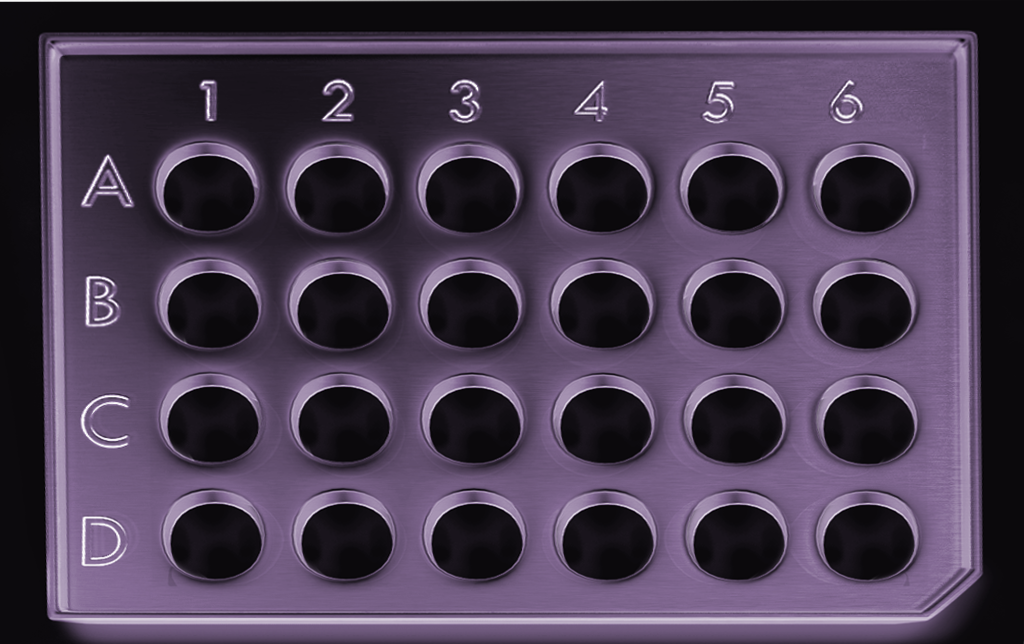
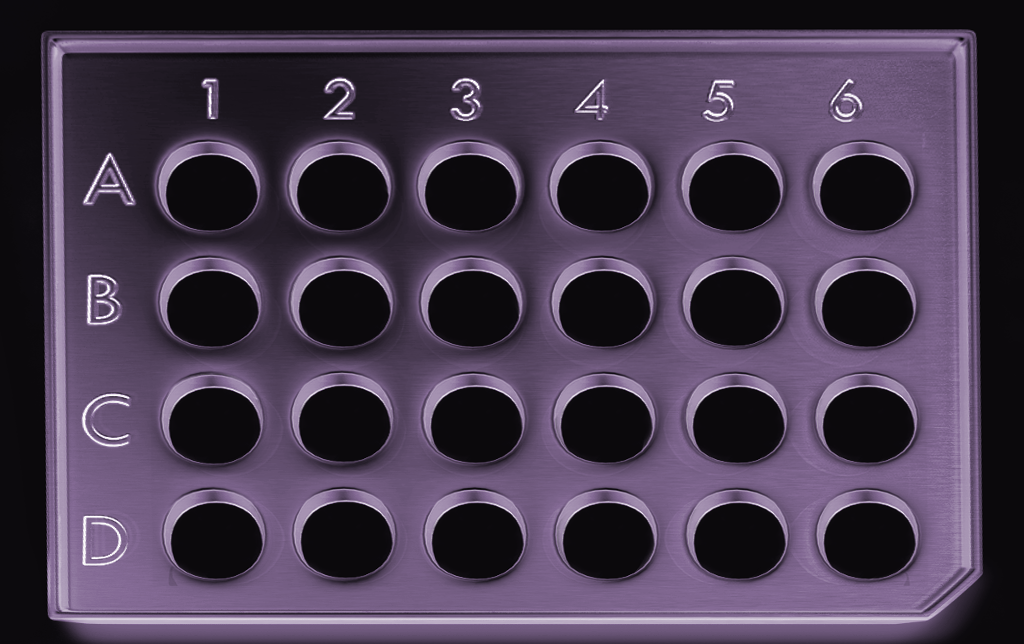
Microtiter now shows individual wells neatly, with correct overlay. Also, initial work on myeloma as own model

diff --git a/app/css/popup/_microtiter.scss b/app/css/popup/_microtiter.scss
@@ -30,11 +30,27 @@
   }
 }
 
-.well-slot0, .well-slot1, .well-slot2, .well-slot3 { width: 110px; height: 100px; position: absolute;}
+.well-slot0, .well-slot1, .well-slot2, .well-slot3, .well-slot4, .well-slot5,
+.well-slot6, .well-slot7, .well-slot8, .well-slot9, .well-slot10, .well-slot11,
+.well-slot12, .well-slot13, .well-slot14, .well-slot15, .well-slot16, .well-slot17,
+.well-slot18, .well-slot19, .well-slot20, .well-slot21, .well-slot22, .well-slot23  { width: 120px; height: 110px; position: absolute;}
 
-$topRow0: 130px;
-$leftColumn0: 162px;
-$leftColumn1: $leftColumn0 + 128px;
+$topRow0: 131px;
+$topRow1: $topRow0 + 117px;
+$topRow2: $topRow1 + 117px;
+$topRow3: $topRow2 + 117px;
+
+$leftRow1: 1px;
+$leftRow2: 2px;
+$leftRow3: 4px;
+
+$leftColumn0: 149px;
+$leftColumn1: $leftColumn0 + 130px;
+$leftColumn2: $leftColumn1 + 130px;
+$leftColumn3: $leftColumn2 + 131px;
+$leftColumn4: $leftColumn3 + 131px;
+$leftColumn5: $leftColumn4 + 132px;
+
 
 .well-slot0{
   top: $topRow0;
@@ -46,9 +62,89 @@ $leftColumn1: $leftColumn0 + 128px;
 }
 .well-slot2{
   top: $topRow0;
-  left: 410px;
+  left: $leftColumn2;
 }
 .well-slot3{
-    top: $topRow0;
-    left: 560px;
+  top: $topRow0;
+  left: $leftColumn3;
+}
+.well-slot4{
+  top: $topRow0;
+  left: $leftColumn4;
+}
+.well-slot5{
+  top: $topRow0;
+  left: $leftColumn5;
+}
+.well-slot6{
+  top: $topRow1;
+  left: $leftColumn0 + $leftRow1;
+}
+.well-slot7{
+  top: $topRow1;
+  left: $leftColumn1 + $leftRow1;
+}
+.well-slot8{
+  top: $topRow1;
+  left: $leftColumn2 + $leftRow1;
+}
+.well-slot9{
+  top: $topRow1;
+  left: $leftColumn3 + $leftRow1;
+}
+.well-slot10{
+  top: $topRow1;
+  left: $leftColumn4 + $leftRow1;
+}
+.well-slot11{
+  top: $topRow1;
+  left: $leftColumn5 + $leftRow1;
+}
+.well-slot12{
+  top: $topRow2;
+  left: $leftColumn0 + $leftRow2;
+}
+.well-slot13{
+  top: $topRow2;
+  left: $leftColumn1 + $leftRow2;
+}
+.well-slot14{
+  top: $topRow2;
+  left: $leftColumn2 + $leftRow2;
+}
+.well-slot15{
+  top: $topRow2;
+  left: $leftColumn3 + $leftRow2;
+}
+.well-slot16{
+  top: $topRow2;
+  left: $leftColumn4 + $leftRow2;
+}
+.well-slot17{
+  top: $topRow2;
+  left: $leftColumn5 + $leftRow2;
+}
+.well-slot18{
+  top: $topRow3;
+  left: $leftColumn0 + $leftRow3;
+}
+.well-slot19{
+  top: $topRow3;
+  left: $leftColumn1 + $leftRow3;
+}
+.well-slot20{
+  top: $topRow3;
+  left: $leftColumn2 + $leftRow3;
+}
+.well-slot21{
+  top: $topRow3;
+  left: $leftColumn3 + $leftRow3;
+}
+.well-slot22{
+  top: $topRow3;
+  left: $leftColumn4 + $leftRow3;
+}
+.well-slot23{
+  top: $topRow3;
+  left: $leftColumn5 + $leftRow3;
 }

diff --git a/app/js/model/Microtiterplate.js b/app/js/model/Microtiterplate.js
@@ -1,19 +1,25 @@
 define([
     'knockout',
     'model/SimpleContainer',
-    'model/Well',
-    'model/type/Container'
-], function (ko, SimpleContainerModel, WellModel, ContainerType) {
+    'model/MicrotiterWells',
+    'model/type/Container',
+    'model/type/AntigenCoating'
+], function (ko, SimpleContainerModel, MicrotiterWellsModel, ContainerType, AntigenCoatingType) {
 
     var Microtiterplate = SimpleContainerModel.extend({
-        constructor: function () {
+        constructor: function (antigenCoatingType) {
             var self = this;
             self.base(ContainerType.MICROTITER, Math.pow(10, 10));
-            self.wells = ko.observableArray([]);
+            self.antigenCoating = ko.observable(antigenCoatingType || AntigenCoatingType.NONE);
+            self.microtiterWells = ko.observable(new MicrotiterWellsModel(antigenCoatingType));
 
-            for(var i = 0; i < 4; i++){
-                self.wells.push(new WellModel());
-            }
+
+            self.isWellFluorescent = function (index) {
+                if (self.isFluorescent())
+                    return true;
+
+                return self.microtiterWells().isWellFluorescent(index);
+            };
         }
     });
 

diff --git a/app/js/factory/Liquid.js b/app/js/factory/Liquid.js
@@ -3,6 +3,7 @@ define([
     'model/Liquid',
     'model/ReactionCount',
     'model/Microorganism',
+    'model/Myeloma',
     'model/Antibiotic',
     'model/HomogenizedSpleen',
     'model/SaltWater',
@@ -11,7 +12,7 @@ define([
     'model/type/Antibiotic',
     'model/type/Liquid'
 
-], function (ko, Liquid, ReactionCount, Microorganism, Antibiotic,
+], function (ko, Liquid, ReactionCount, Microorganism, MyelomaModel, Antibiotic,
              HomogenizedSpleen, SaltWater, MicroorganismType, AntibioticType,
              LiquidType) {
 
@@ -32,16 +33,8 @@ define([
             },
 
             myeloma: function () {
-                var micro = new Microorganism(MicroorganismType.MYELOMA);
-
-                micro.living(true);
-                micro.extraGenes([]);
-                micro.extraProperties([]);
-                micro.optimalPh(7.25); // http://en.wikipedia.org/wiki/Blood#Narrow_range_of_pH_values
-                micro.optimalTemp(37);
-                micro.concentration(Math.pow(10, 8));
-
-                return micro;
+                //TODO: verify
+                return new MyelomaModel();
             }
         },
 

diff --git a/app/js/model/MicrotiterWells.js b/app/js/model/MicrotiterWells.js
@@ -1,0 +1,32 @@
+define([
+    'knockout',
+    'lodash',
+
+    'model/Liquid',
+    'model/type/Liquid',
+    'model/ReactionCount',
+    'model/Well'
+], function (ko, _, LiquidModel, LiquidType, ReactionCount, WellModel) {
+
+    var MicrotiterWells = LiquidModel.extend({
+        constructor: function (antigenCoatingType) {
+            var self = this;
+            self.base(LiquidType.MICROTITER_WELLS, ReactionCount.NEVER);
+
+            self.wells = ko.observableArray([]);
+
+            for(var i = 0; i < 24; i++){
+                self.wells.push(new WellModel());
+            }
+
+            self.isWellFluorescent = function (index) {
+                 return self.wells()[index].hasFluorescentSecondaryAntibody();
+            };
+
+
+        }
+    });
+
+    return MicrotiterWells;
+});
+

diff --git a/app/js/model/Myeloma.js b/app/js/model/Myeloma.js
@@ -1,0 +1,27 @@
+define([
+    'knockout',
+    'lodash',
+    'model/Microorganism',
+    'model/type/Liquid',
+    'model/ReactionCount',
+    'model/type/Microorganism',
+], function(ko, _, MicroorganismModel, LiquidType, ReactionCount, MicroorganismType) {
+
+    var Myeloma = MicroorganismModel.extend({
+        constructor: function () {
+
+            var self = this;
+            self.base(MicroorganismType.MYELOMA);
+
+            self.living(true);
+            self.extraGenes([]);
+            self.extraProperties([]);
+            self.optimalPh(7.25); // http://en.wikipedia.org/wiki/Blood#Narrow_range_of_pH_values
+            self.optimalTemp(37);
+            self.concentration(Math.pow(10, 8));
+        }
+    });
+
+    return Myeloma;
+});
+

diff --git a/app/js/utils/ImageHelper.js b/app/js/utils/ImageHelper.js
@@ -65,7 +65,15 @@ define([
                 return self.img('sidegroup_' + name + '.png');
             };
 
-            self.microtiterWell = function(position, microtiter) {
+            self.microtiterWell = function(index, microtiter) {
+
+                if (microtiter.location() === LocationType.UVROOM) {
+                    if (microtiter.isWellFluorescent(index)) {
+                        return self.img('zoom_mkrt_well_uv_glow.png')
+                    }else {
+                        return self.img('zoom_mkrt_well_uv_full.png')
+                    }
+                }
                 return self.img('zoom_mkrt_well_dense.png');
             };
 

diff --git a/app/js/model/type/Liquid.js b/app/js/model/type/Liquid.js
@@ -8,6 +8,7 @@ define([], function () {
         ORGANISM_PROPERTY:'LiquidType.ORGANISM_PROPERTY',
         JUICE:            'LiquidType.JUICE',
         SALT_WATER:       'LiquidType.SALT_WATER',
+        MICROTITER_WELLS: 'LiquidType.MICROTITER_WELLS',
         DEADLY:           'LiquidType.DEADLY',
         HOMO_SPLEEN:      'LiquidType.HOMO_SPLEEN',
         INSULIN:          'LiquidType.INSULIN',

diff --git a/app/js/model/SimpleContainer.js b/app/js/model/SimpleContainer.js
@@ -122,7 +122,6 @@ define([
                 return _.invoke(self.liquids(), 'clone');
             };
 
-            // TODO: implement
             self.isFluorescent = function () {
                 return _.any(self.liquids(), function(liquid) {
                     if (liquid.type() === LiquidType.MICROORGANISM) {

diff --git a/app/js/model/type/AntigenCoating.js b/app/js/model/type/AntigenCoating.js
@@ -1,0 +1,7 @@
+define([], function () {
+    return {
+        GOUT: 'AntigenCoatingType.GOUT',
+        SMALLPOX: 'AntigenCoatingType.SMALLPOX',
+        NONE: 'AntigenCoatingType.NONE'
+    };
+});
